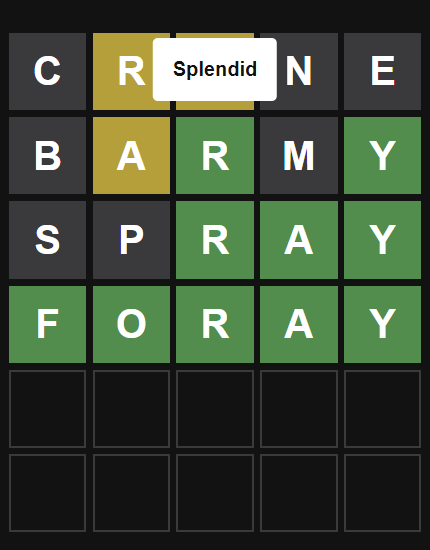
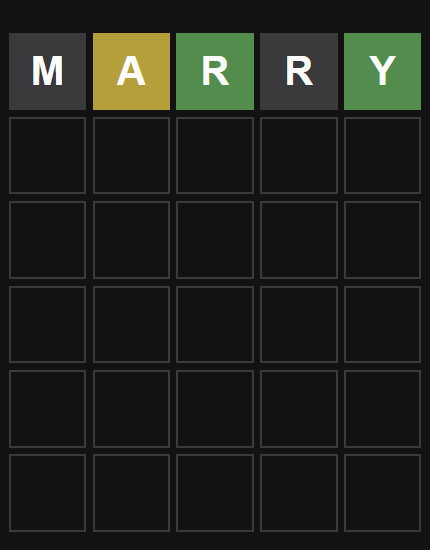
finding errors and testing

diff --git a/bot.py b/bot.py
@@ -11,7 +11,7 @@ from nltk.corpus import words
 # word_list = sorted(words.words(), key=lambda x: freqs[x.lower()], reverse=True)
 word_list = words.words()
 arr = []
-start_phrase = "crane"
+start_phrase = "marry"
 for word in word_list:
   if len(word) == 5:
     arr.append(word.lower())
@@ -19,8 +19,8 @@ for word in word_list:
 word_set = set(arr)
 print(len(word_set))
 green_letters = ["", "", "", "", ""]
-yellow_letters = [[], ["r"], ["a"], [], []]
-wrong_letters = ["c", "n", "e"]
+yellow_letters = [[], [], [], [], []]
+wrong_letters = []
 time.sleep(3)
 guess_word = start_phrase
 for index in range(0, 5):
@@ -121,17 +121,16 @@ for index in range(0, 5):
     print(word)
   print(len(word_set))
   guess_word = list(word_set)[random.randint(0, len(word_set)-1)]
-  print ("word: " + guess_word)
-  # time.sleep(3)
+  print("word: " + guess_word)
+  time.sleep(3)
   
 cv2.imwrite("results/game"+str(datetime.date.today())+"-"+str(random.randint(100,999))+".png", output)
-# cv2.imshow("Thresh", thresh)
-# cv2.imshow("Output", output)
-# cv2.waitKey()
-# cv2.destroyAllWindows()
+cv2.imshow("Thresh", thresh)
+cv2.imshow("Output", output)
+cv2.waitKey()
+cv2.destroyAllWindows()
 
-
-#TODO
+# TODO
 # words with double letters (one green)
 # better words
 # sort words?

diff --git a/getLetters.py b/getLetters.py
@@ -8,11 +8,11 @@ import pytesseract
 
 pytesseract.pytesseract.tesseract_cmd = r'C:/Program Files/Tesseract-OCR/tesseract.exe'
 
-# image = pyautogui.screenshot(region=(750, 220, 430, 530))
-# image = cv2.cvtColor(np.array(image), cv2.COLOR_RGB2BGR)
-# cv2.imwrite("game.png", image)
-# cv2.imshow("image", image)
-# cv2.waitKey()
+image = pyautogui.screenshot(region=(750, 220, 430, 530))
+image = cv2.cvtColor(np.array(image), cv2.COLOR_RGB2BGR)
+cv2.imwrite("game.png", image)
+cv2.imshow("image", image)
+cv2.waitKey()
 
 image = cv2.imread("game.png")
 resized = imutils.resize(image, width=400)
